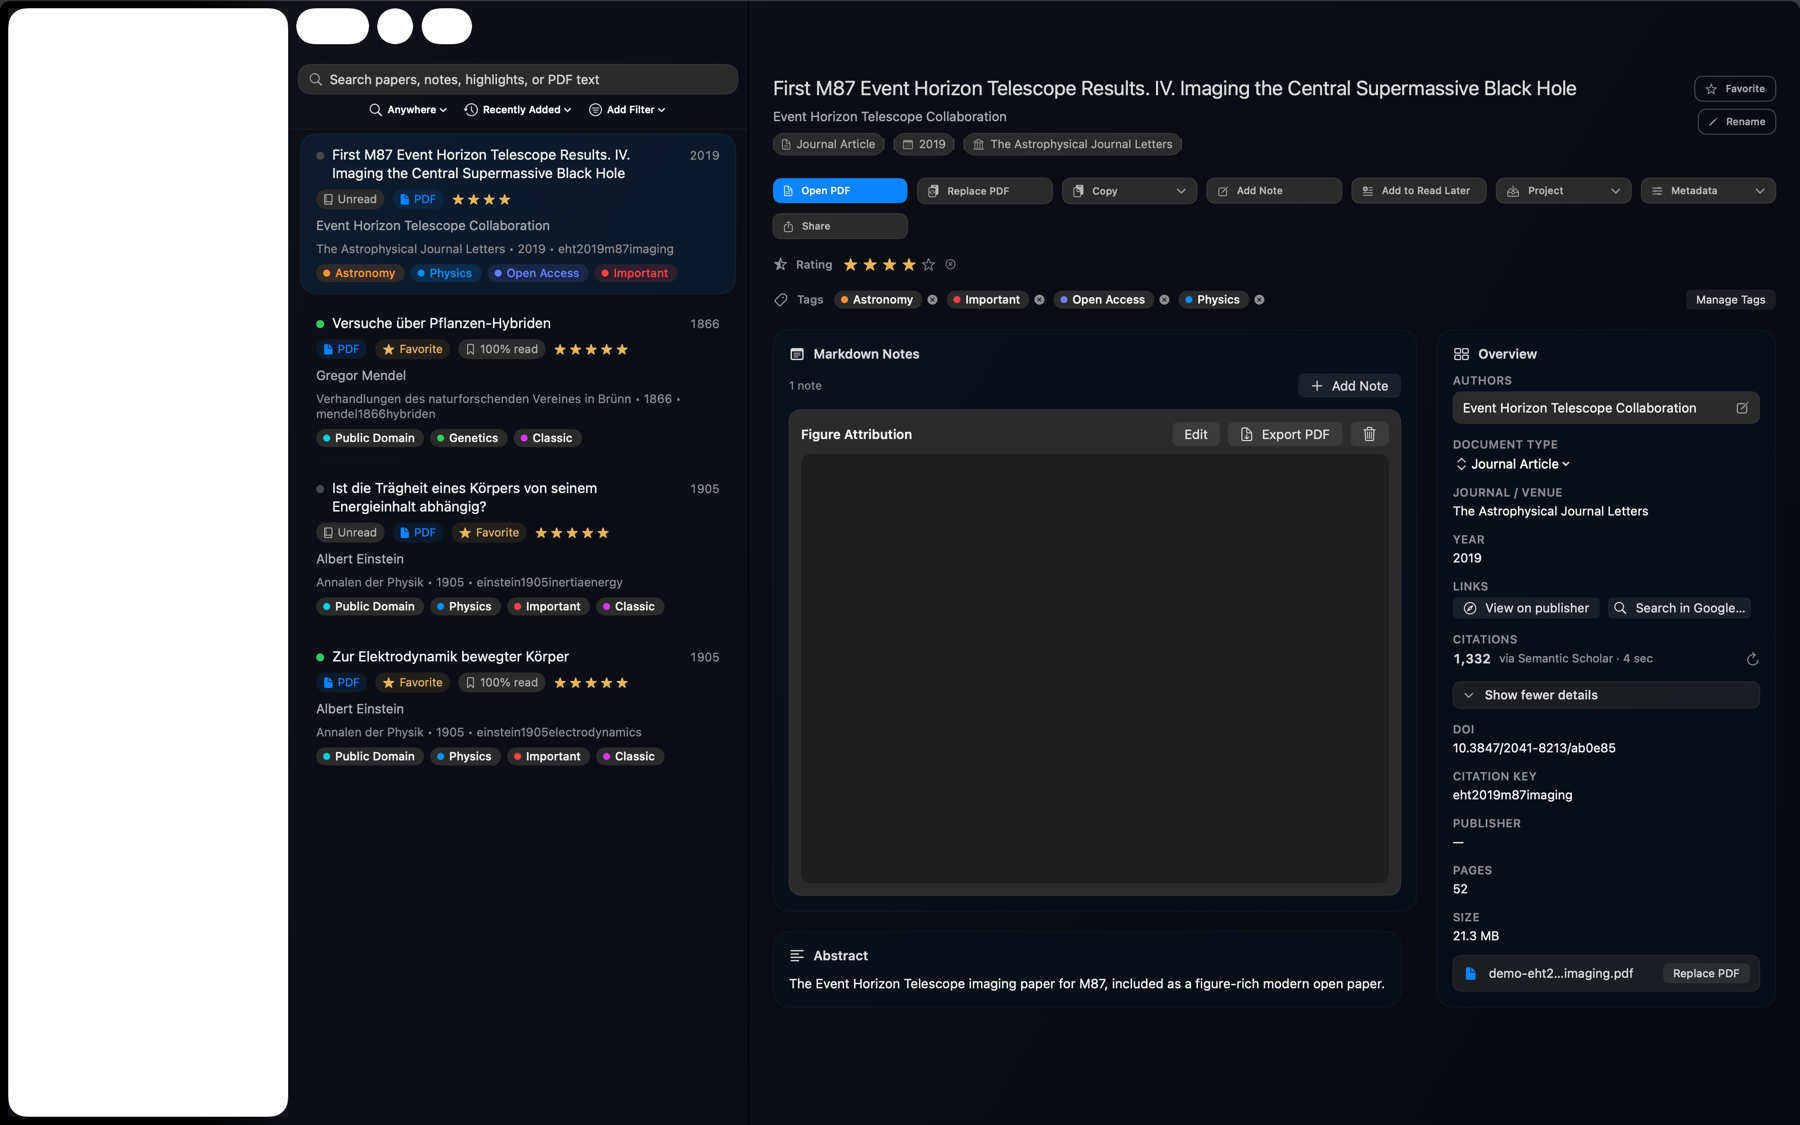
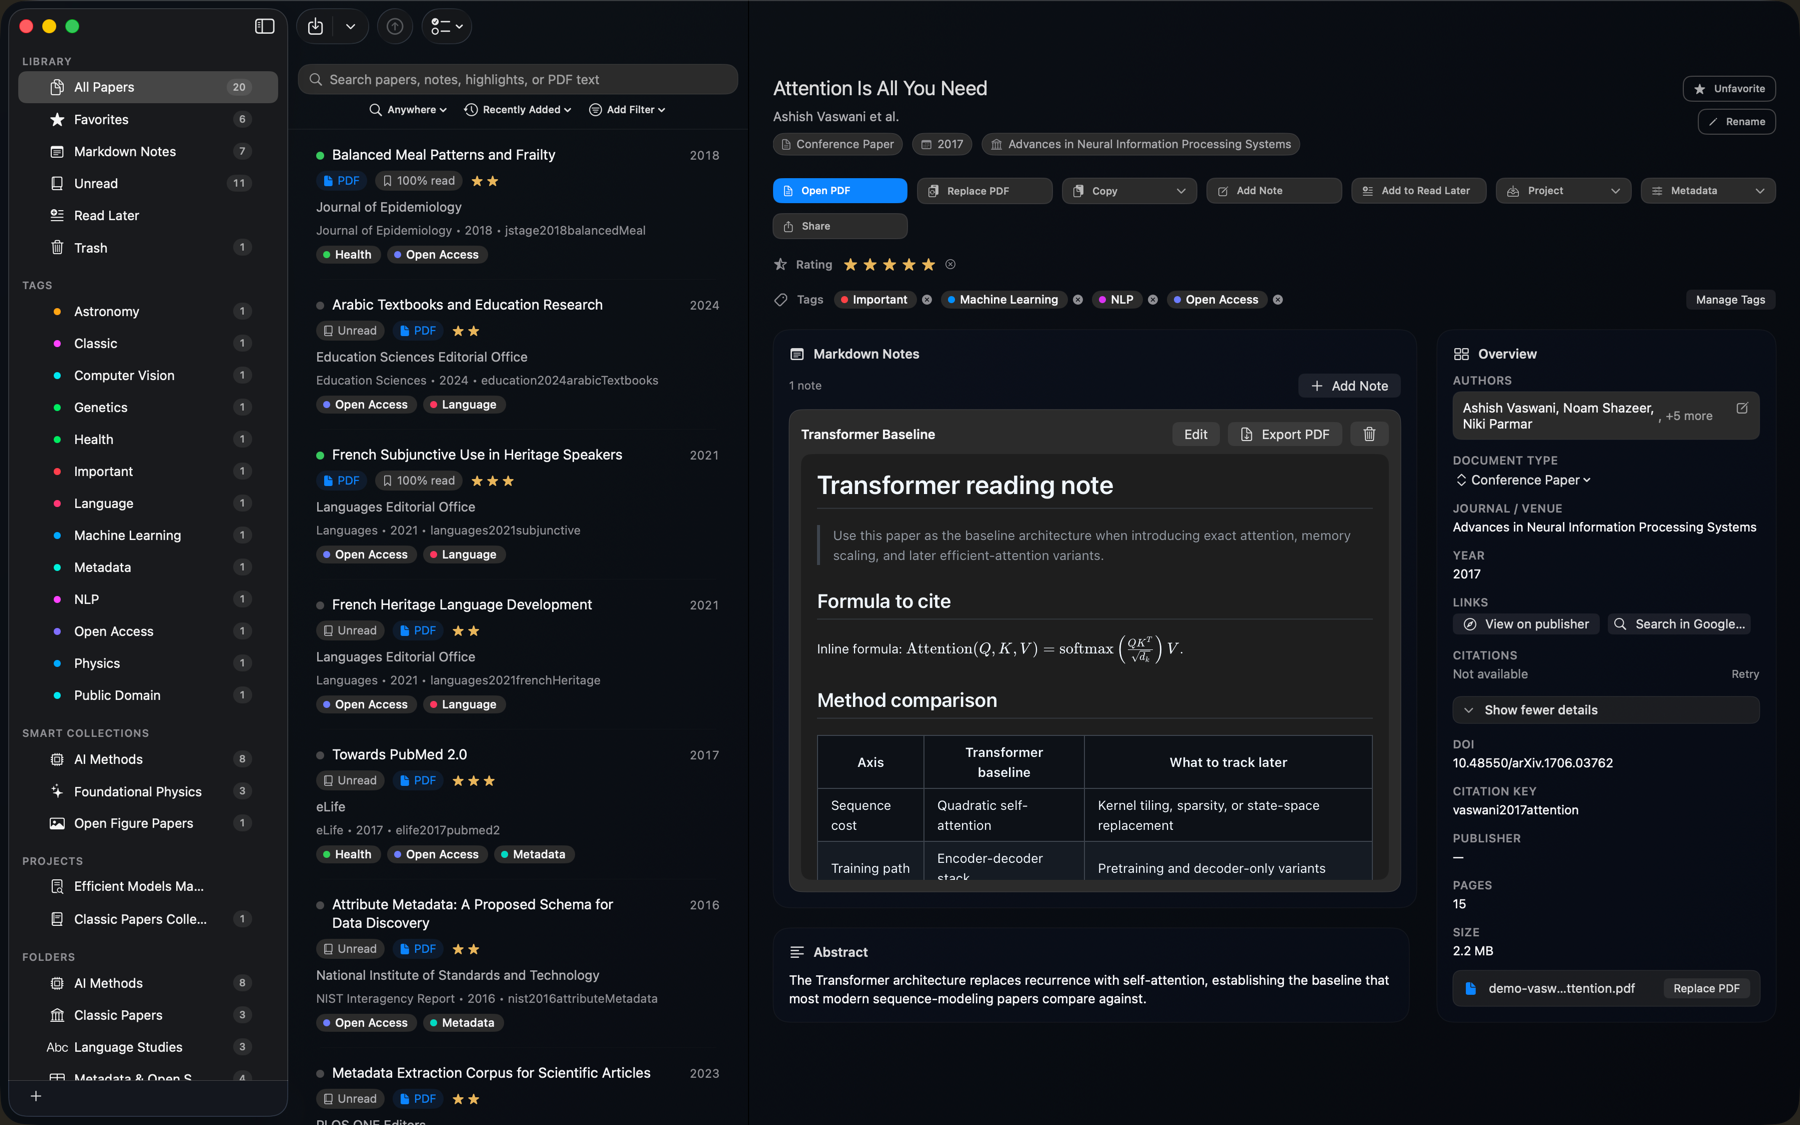
Refresh site screenshots with real app captures

diff --git a/index.html b/index.html
@@ -70,7 +70,7 @@
   </div>
 
   <figure class="hero__shot hero-a5">
-    <img class="screenshot screenshot--light" src="assets/app-captures/library-window-light.png" alt="Papyrus Papers library window with real PDF sources — sidebar collections, a paper list, and the Event Horizon Telescope paper detail with notes, metadata, and citation fields">
+    <img class="screenshot screenshot--light" src="assets/app-captures/library-window-light.png" alt="Papyrus Papers library window with real PDF sources, sidebar collections, a paper list, and a paper detail view with Markdown notes, KaTeX math, metadata, tags, and citation fields">
     <img class="screenshot screenshot--dark" src="assets/app-captures/library-window-dark.png" alt="" aria-hidden="true">
   </figure>
 </section>
@@ -176,7 +176,7 @@
         </div>
       </div>
       <div class="feature-image reveal reveal-d2">
-        <img class="screenshot screenshot--light" src="assets/app-captures/reader-window-light.png" alt="Papyrus Papers reader window showing the real Event Horizon Telescope PDF with a reading-note inspector beside the document">
+        <img class="screenshot screenshot--light" src="assets/app-captures/reader-window-light.png" alt="Papyrus Papers reader window showing a real Event Horizon Telescope PDF with Markdown notes, KaTeX math, tags, and paper metadata beside the document">
         <img class="screenshot screenshot--dark" src="assets/app-captures/reader-window-dark.png" alt="" aria-hidden="true">
       </div>
     </div>
@@ -199,7 +199,7 @@
         </div>
       </div>
       <div class="feature-image reveal reveal-d2">
-        <img class="screenshot screenshot--light screenshot--portrait" src="assets/app-captures/library-sidebar-light.png" alt="Papyrus Papers project workspace close-up — writing progress, from-reading-to-draft steps, project search, and Evidence Board">
+        <img class="screenshot screenshot--light screenshot--portrait" src="assets/app-captures/library-sidebar-light.png" alt="Papyrus Papers project workspace close-up with writing progress, from-reading-to-draft steps, project search, manuscript notes, and Evidence Board">
         <img class="screenshot screenshot--dark screenshot--portrait" src="assets/app-captures/library-sidebar-dark.png" alt="" aria-hidden="true">
       </div>
     </div>
@@ -218,18 +218,18 @@
     <div class="organization-grid">
       <div class="org-card reveal">
         <div class="org-card__image">
-          <img class="screenshot screenshot--light" src="assets/app-captures/library-window-smart-light.png" alt="Papyrus Papers with the 'Open Figure Papers' Smart Collection selected — a real open-access Event Horizon Telescope PDF remains connected to notes and metadata">
+          <img class="screenshot screenshot--light" src="assets/app-captures/library-window-smart-light.png" alt="Papyrus Papers with the AI Methods Smart Collection selected, showing real papers, notes, tags, and metadata in the native library window">
           <img class="screenshot screenshot--dark" src="assets/app-captures/library-window-smart-dark.png" alt="" aria-hidden="true">
         </div>
         <div class="org-card__text">
           <h3>Smart Collections</h3>
-          <p>Saved queries that always reflect the current state of the library. Build your own from any combination of tags, journals, year ranges, BibTeX type, favorites, and PDF status — the demo collections (<em>Foundational Physics</em> and <em>Open Figure Papers</em>) are just examples.</p>
+          <p>Saved queries that always reflect the current state of the library. Build your own from any combination of tags, journals, year ranges, BibTeX type, favorites, and PDF status — the demo collections such as <em>AI Methods</em> and <em>Foundational Physics</em> are just examples.</p>
         </div>
       </div>
 
       <div class="org-card reveal reveal-d1">
         <div class="org-card__image">
-          <img class="screenshot screenshot--light" src="assets/app-captures/library-window-project-light.png" alt="Papyrus Papers with the 'Classic Papers Collection' Project selected — real source PDFs grouped into a project workspace with writing progress and project search">
+          <img class="screenshot screenshot--light" src="assets/app-captures/library-window-project-light.png" alt="Papyrus Papers with the Efficient Models Manuscript project selected, showing real source PDFs grouped into a project workspace with writing progress and project search">
           <img class="screenshot screenshot--dark" src="assets/app-captures/library-window-project-dark.png" alt="" aria-hidden="true">
         </div>
         <div class="org-card__text">
@@ -240,7 +240,7 @@
 
       <div class="org-card reveal reveal-d2">
         <div class="org-card__image">
-          <img class="screenshot screenshot--light" src="assets/app-captures/library-window-folder-light.png" alt="Papyrus Papers library with Classic Papers and Modern Open Figures folders visible beside the real PDF paper list">
+          <img class="screenshot screenshot--light" src="assets/app-captures/library-window-folder-light.png" alt="Papyrus Papers library with the AI Methods folder selected beside a real PDF paper list and native sidebar organization">
           <img class="screenshot screenshot--dark" src="assets/app-captures/library-window-folder-dark.png" alt="" aria-hidden="true">
         </div>
         <div class="org-card__text">
